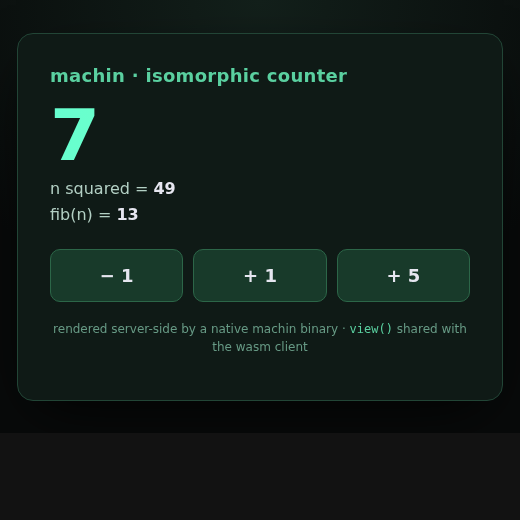
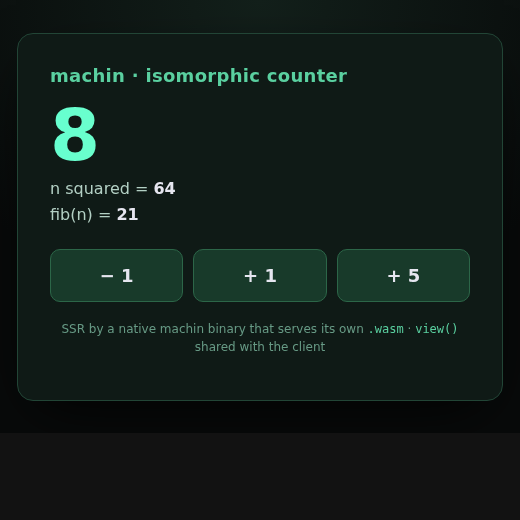
serve the wasm from the same binary + hydrate; adopt machin-web-demo-* name
The native SSR server now serves its own app.wasm (machin v0.51.0 binary
HTTP bodies: read_file_bytes + ok_wasm), so the page hydrates into an
instant SPA with no separate static host — one executable ships both the
SSR HTML and the SPA bundle. The +/- links work server-side with JS off and
upgrade to in-browser re-renders (same view()) when JS is on. build.sh now
builds the wasm by default; re-vendored machweb.src (ok_bytes/ok_wasm).

Verified: GET /app.wasm returns the module byte-identical with
Content-Type application/wasm; the page carries the hydration script;
screenshotted loading in Chrome.

diff --git a/README.md b/README.md
@@ -1,4 +1,4 @@
-# machin-demo-ssr — isomorphic **server-side rendering** in machin
+# machin-web-demo-ssr — isomorphic **server-side rendering** in machin
 
 A counter page rendered **server-side by a single native machin binary** — no
 Node, no bundler, no JavaScript required to use it. The catch that makes it
@@ -10,6 +10,11 @@ compiled into both halves of the app:
 
 **One component model, two runtimes.** The server's HTML and the client's
 re-render are byte-for-byte identical, because they call the same `view()`.
+
+And it's **one binary**: the same native server **serves its own `app.wasm`**
+(machin v0.51.0's binary HTTP bodies), so the page **hydrates** into an instant
+SPA with no separate static host — first paint from the server, interactivity
+from the wasm, all shipped by one executable.
 
 ![screenshot](screenshot.png)
 
@@ -53,32 +58,45 @@ round-trip and produces the exact markup the server sent.
 
 ## Build & run
 
-Needs `machin` (**v0.50.0+** for the wasm client) and — for the client only —
-[`zig`](https://ziglang.org).
+Needs `machin` (**v0.51.0+** — the server serves binary via `read_file_bytes` +
+`ok_wasm`) and [`zig`](https://ziglang.org) (the C→wasm compiler).
 
 ```sh
-./build.sh                       # → ./machin-demo-ssr   (the SSR server)
-./machin-demo-ssr                # serves http://localhost:48090/
-# open http://localhost:48090/  ·  the − / + links navigate server-side
-
-./build.sh client                # also builds ./app.wasm from the same view.src
+./build.sh                       # builds app.wasm AND ./machin-web-demo-ssr
+./machin-web-demo-ssr            # serves http://localhost:48090/  (HTML + its own /app.wasm)
+# open http://localhost:48090/  ·  works with JS off (links navigate server-side),
+#                                   and hydrates to an instant SPA when JS is on
 ```
 
-Confirm the isomorphism — the server and the wasm client emit the same HTML:
+Confirm both halves — the server and the wasm client emit the same HTML, and the
+binary serves its own wasm:
 
 ```sh
-curl -s 'http://localhost:48090/?n=7'   # ...<div class=big>7</div>...fib(n) = <b>13</b>...
-# client render(7) via app.wasm produces that identical fragment
+curl -s 'http://localhost:48090/?n=7'              # ...<div class=big>7</div>...fib(n) = <b>13</b>...
+curl -sI 'http://localhost:48090/app.wasm'         # Content-Type: application/wasm
+# the served bytes are byte-identical to ./app.wasm, and client render(7) gives the same fragment
+```
+
+## How the single binary serves its wasm
+
+machin v0.51.0 added **binary HTTP bodies** so a string body's NUL bytes can't
+truncate a `.wasm`: `read_file_bytes(path) -> bytes` (NUL-safe read) and
+`write_bytes(fd, bytes)` (exact write), with machweb builders `ok_bytes(ctype, b)`
+/ `ok_wasm(b)`. The server's handler is just:
+
+```go
+if req.path == "/app.wasm" {
+    return ok_wasm(read_file_bytes("app.wasm"))
+}
+return ok_html(page(qn(req.path)))
 ```
 
 ## What's next
 
-Today the page hydrates only where `app.wasm` is served alongside it. Having the
-**machin server serve its own wasm** (and assets) wants a machweb **bytes-body
-response** (a `.wasm` has NUL bytes that a C-string body would truncate) — the
-next gap to drive, toward a single binary that ships both the SSR HTML and the
-SPA bundle. See the
-[web north star](https://github.com/javimosch/machin/blob/main/docs/NORTH-STAR-WEB.md).
+The component still keeps no state of its own (the count lives in the URL / the
+JS host). The next steps toward a real **reactive framework in MFL**: package-level
+state so a component owns its state in machin, then signals + a patch-list runtime.
+See the [web north star](https://github.com/javimosch/machin/blob/main/docs/NORTH-STAR-WEB.md).
 
 ## License
 